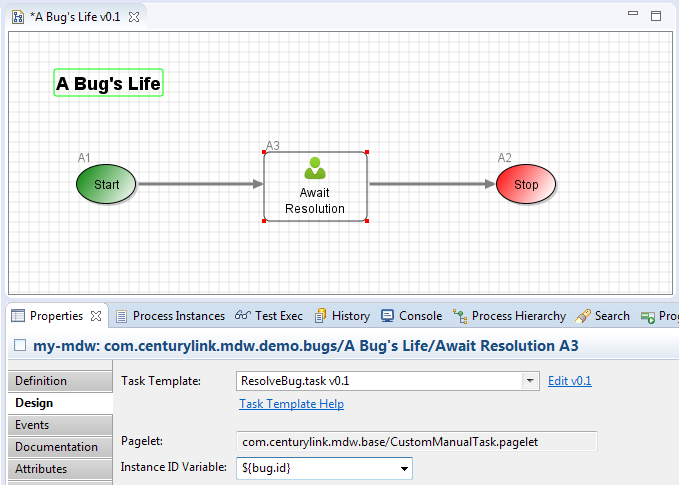
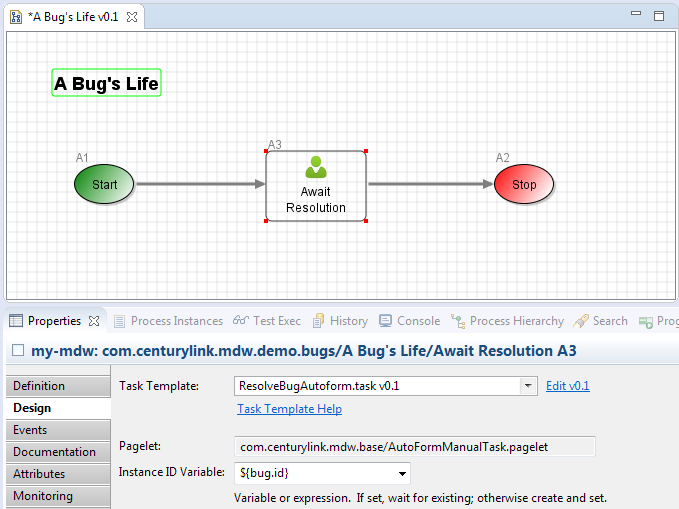
Cookbook updates

Changed region(s): [[0.0, 0.0, 1.0, 1.0], [0.0928, 0.2784, 0.8351, 0.4639], [0.0619, 0.1237, 0.2474, 0.2165]]

diff --git a/mdw-workflow/assets/com/centurylink/mdw/task/Task.jsx b/mdw-workflow/assets/com/centurylink/mdw/task/Task.jsx
@@ -48,6 +48,8 @@ class Task extends Component {
   
   render() {
     var task = this.props.task;
+    // TODO: this refBase doesn't work for non-hash (react) locations
+    var refBase = location.hash ? '#/' : location.origin + this.context.hubRoot + '/#/';
     var animate = true; // not relevant for ad-hoc tasks, but no logic to exclude
     var lastWorkflowInstanceId = sessionStorage.getItem('taskWorkflowInstanceId');
     if (task.ownerId == lastWorkflowInstanceId)
@@ -66,7 +68,7 @@ class Task extends Component {
                     {task.masterRequestId && 
                       <span>
                         <label>Master request:</label>
-                        <a href={'#/workflow/masterRequests/' + task.masterRequestId} 
+                        <a href={refBase + 'workflow/masterRequests/' + task.masterRequestId} 
                             className="mdw-link">{task.masterRequestId}
                         </a>
                       </span>
@@ -100,7 +102,7 @@ class Task extends Component {
                   {task.secondaryOwnerType == 'TASK_INSTANCE' &&
                     <div className="mdw-item-group">
                       Master Task: 
-                      <a href={'#/tasks/' + task.secondaryOwnerId}>{task.secondaryOwnerId}</a>
+                      <a href={refBase + 'tasks/' + task.secondaryOwnerId}>{task.secondaryOwnerId}</a>
                     </div>
                   }
                 </div>
@@ -115,21 +117,21 @@ class Task extends Component {
               {task.assignee &&
                 <div>
                   <img src={this.context.hubRoot + '/images/user.png'} alt="user"/>
-                  {' '}<a href={'#/users/' + task.assigneeId}>{task.assignee}</a>
+                  {' '}<a href={refBase + 'users/' + task.assigneeId}>{task.assignee}</a>
                 </div>
               }
             </div>
           </div>
           <div className="mdw-task-process">
             <span className="mdw-task-package">{task.packageName}/</span>
-            <a href={'#/workflow/processes/' + task.ownerId}>
+            <a href={refBase + 'workflow/processes/' + task.ownerId}>
               {task.processName} {task.ownerId}
             </a>
           </div>
           {task.template &&
             <div className="mdw-task-template">
               <Glyphicon glyph="file" style={{marginRight:'2px',opacity:'0.6'}}/>
-              <a href={'#/asset/' + task.template}>Task Template</a>
+              <a href={refBase + 'asset/' + task.template}>Task Template</a>
             </div>
           }
           <div id="mdw-task-workflow" className="mdw-task-workflow">

diff --git a/mdw-workflow/assets/com/centurylink/mdw/task/Values.jsx b/mdw-workflow/assets/com/centurylink/mdw/task/Values.jsx
@@ -54,14 +54,19 @@ class Values extends Component {
       values.push(val);
     });
     values.sort((val1, val2) => {
-      var diff = val1.sequence - val2.sequence;
-      if (diff === 0) {
+      if (typeof val1.sequence === 'number') {
+        if (typeof val2.sequence === 'number')
+          return val1.sequence - val2.sequence;
+        else
+          return -1;
+      }
+      else if (typeof val2.sequence === 'number') {
+        return 1;
+      }
+      else {
         var label1 = val1.label ? val1.label : val1.name;
         var label2 = val2.label ? val2.label : val2.name;
         return label1.toLowerCase().localeCompare(label2.toLowerCase());
-      }
-      else {
-        return diff;
       }
     });      
     this.setState({
@@ -153,4 +158,4 @@ Values.contextTypes = {
   serviceRoot: PropTypes.string  
 };
 
-export default Values;  
+export default Values;

diff --git a/mdw-services/src/com/centurylink/mdw/service/data/task/TaskDataAccess.java b/mdw-services/src/com/centurylink/mdw/service/data/task/TaskDataAccess.java
@@ -865,10 +865,10 @@ public class TaskDataAccess extends CommonDataAccess {
         // category
         String category = query.getFilter("category");
         if (category != null) {
-            Long categoryCode = getCategoryId(category);
-            if (categoryCode == null)
+            Long categoryId = getCategoryId(category);
+            if (categoryId == null)
                 throw new DataAccessException("Unable to find code for category: " + category);
-            String catTasksClause = buildCategoryTasksClause((int)categoryCode.longValue());
+            String catTasksClause = buildCategoryTasksClause((int)categoryId.longValue());
             if (catTasksClause != null)
                 where.append(" and ").append(catTasksClause).append("\n");
         }
@@ -974,10 +974,10 @@ public class TaskDataAccess extends CommonDataAccess {
         return DataAccess.getBaselineData().getTaskCategoryCodes().get(categoryId);
     }
 
-    protected Long getCategoryId(String categoryName) throws DataAccessException {
-        if (categoryName != null) {
+    protected Long getCategoryId(String categoryNameOrCode) throws DataAccessException {
+        if (categoryNameOrCode != null) {
             for (TaskCategory taskCategory : DataAccess.getBaselineData().getTaskCategories().values()) {
-                if (categoryName.equals(taskCategory.getName())) {
+                if (categoryNameOrCode.equals(taskCategory.getName()) || categoryNameOrCode.equals(taskCategory.getCode())) {
                     return taskCategory.getId();
                 }
             }

diff --git a/docs/_docs/guides/mdw-cookbook.md b/docs/_docs/guides/mdw-cookbook.md
@@ -23,8 +23,8 @@ is available to clone in its completed state from the [mdw-demo repository](http
      - 2.3 [Add a manual task activity](#23-add-a-manual-task-activity)
      - 2.4 [Create a Spring asset](#24-create-a-spring-asset)
      - 2.5 [Consume a REST service](#25-consume-a-rest-service)
-  3. [Integrate a Custom Web UI](#4-integrate-a-custom-web-ui)
-     - TODO: Custom bug submit page
+  3. [Integrate a Custom Web UI](#3-integrate-a-custom-web-ui)
+     - 3.1: Custom bug submit page
      - TODO: Custom task page
   4. [Document and Run Automated Tests](#3-create-an-automated-test)
      - TODO: document the Create Bug process
@@ -426,14 +426,14 @@ is available to clone in its completed state from the [mdw-demo repository](http
     Label the activity Persist Bug, and in the Icon text box type *bug.png*.  Click Next, and for Dynamic Java Class Name, type *PersistBugActivity*.
   
   - After clicking Finish, replace the generated Java code with 
-    [PersistBugActivity.java on GitHub], which implements `execute()` to tell the MDW workflow engine what to do.  These lines
-    from `execute()` take care of creating the task:
+    [PersistBugActivity.java on GitHub](https://github.com/CenturyLinkCloud/mdw-demo/blob/master/assets/com/centurylink/mdw/demo/bugs/PersistBugActivity.java),
+    which implements `execute()` to tell MDW's workflow engine what to do.  These lines from `execute()` take care of creating the task:
     ```java
     public Object execute(ActivityRuntimeContext runtimeContext) throws ActivityException {
-      Bug requestBug = (Bug) this.getVariableValue("request");
-      
+      Bug requestBug = (Bug)getValue("request");
+      String taskTemplate = getTaskTemplate();
       try {
-          AssetVersionSpec templateAsset = new AssetVersionSpec(TASK_TEMPLATE, "0");
+        AssetVersionSpec templateAsset = new AssetVersionSpec(taskTemplate, "0");
           TaskTemplate template = TaskTemplateCache.getTaskTemplate(templateAsset);
           if (template == null)
               throw new DataAccessException("Task template not found: " + template);
@@ -447,8 +447,9 @@ is available to clone in its completed state from the [mdw-demo repository](http
     ```
     Here we're calling [TaskServices.createTask()](../../javadoc/com/centurylink/mdw/services/TaskServices.html#createTask-java.lang.Long-java.lang.String-java.lang.Long-java.lang.String-java.lang.Long-java.lang.String-java.lang.String-), 
     which requires a [Task Template](../../help/taskTemplates.html) asset to specify a pattern.
-    The TASK_TEMPLATE constant illustrates an asset designation that's very common in MDW: `com.centurylink.mdw.demo.bugs/ResolveBug.task`.
-    This equates to assets/com/centurylink/mdw/demo/bugs/ResolveBug.task in your project directory.  Unlike a qualified Java class name,
+    The getTaskTemplate() method returns a string which illustrates MDW's convention for referring to a specific asset:
+    `com.centurylink.mdw.demo.bugs/ResolveBugAutoform.task`.
+    This equates to assets/com/centurylink/mdw/demo/bugs/ResolveBugAutoform.task in your project directory.  Unlike a qualified Java class name,
     a slash separates the package from the asset name.  We'll create the task template asset in the next step.
     
   - When you clicked Finish in the activity creation wizard, aside from the generated PersistBugActivity.java asset, another one named 
@@ -456,7 +457,7 @@ is available to clone in its completed state from the [mdw-demo repository](http
     the Toolbox, impl assets are filtered from Process Explorer by default.  You can click the Filter icon to configure this, 
     or view the .impl file from the assets directory on your hard drive.
     
-  - Also remember that we told the Designer wizard to use bug.png for our activity's toolbox icon.  You probably guessed that the icon is an asset as well.
+  - Also remember that we told the Designer wizard to use bug.png for our activity's toolbox icon.  You probably guessed that the icon image is an asset as well.
     Download [bug.png from GitHub](https://github.com/CenturyLinkCloud/mdw-demo/blob/master/assets/com/centurylink/mdw/demo/bugs/bug.png)
     into assets/com/centurylink/mdw/demo/bugs in your project.  Then close all open files and refresh Process Explorer to see it appear.
     
@@ -466,28 +467,36 @@ is available to clone in its completed state from the [mdw-demo repository](http
     Now save your process changes.
 
 #### Create a task template asset
-  - Right-click on the com.centurylink.mdw.demo.bugs package and select New > Task Template.  Name the template ResolveBug.task, and 
-    make sure you select Custom for Language/Format:<br>
+  - Right-click on the com.centurylink.mdw.demo.bugs package and select New > Task Template.  Name the template ResolveBugAutoform.task, and 
+    make sure you select AutoForm for Language/Format:<br>
     ![create task template](../images/create-task-template.png)<br>
     
-  - When the wizard finishes, ResolveBug.task will open in Designer's template editor.  Notice the tabs at the bottom of the editor pane.
+  - When the wizard finishes, ResolveBugAutoform.task will open in Designer's template editor.  Notice the tabs at the bottom of the editor pane.
     On the General tab, for Task Name enter the [Java Expression](http://docs.oracle.com/javaee/6/tutorial/doc/gjddd.html) `${bug.title}`, 
     which tells MDW to use the *bug* process variable's *title* value.<br>
     ![task template editor](../images/task-template-editor.png)<br>
     
-  - Then on the Workgroups tab, add Developers to the Selected Groups.  That's all we need to do to the template for now.  Later on we'll
-    learn how to customize the web UI and other aspects of our ResolveBug task.  Save the template with these changes.  
+  - Then on the Workgroups tab, add Developers to the Selected Groups.  That's all we need to do to the template at the moment.  Later on we'll
+    learn how to customize the web UI and other aspects of our task.  But for now save the template with just these changes.  
      
 #### Run the revised process and view the task
-  - Submit a (valid) bug request via HTTP POST as before, and view your process in Designer.  The flow should have run to completion.
-    On the Values tab, double-click the responseHeaders variable.  When submitting you may have noticed that the HTTP status code 
+  - We want to submit a (valid) bug request via HTTP POST as before.  But you may have noticed that getTaskTemplate() in the GitHub version
+    of PersistBugActivity returns ResolveBugAutoform only conditionally.  To meet that condition, you'll want to use your posting tool to add a 
+    header `autoform` with a value of `true`.  If that's not convenient, then simply change getTaskTemplate() to return a hardcoded response:
+    ```java
+    private String getTaskTemplate() throws ActivityException {
+        return "com.centurylink.mdw.demo.bugs/ResolveBugAutoform.task";
+    }
+    ```
+    After submitting, the process flow should run to completion.  On the Values tab, double-click the responseHeaders variable.  
+    When submitting you may have noticed that the HTTP status code on the response
     changed to 201 (Created), and the response headers now include *Location*.  Review the code in PersistBugActivity.execute() to see
     how responseHeaders is populated.  It's another example of a convention in MDW whereby you can readily control the behavior of 
-    your REST service.  
-  
+    your REST service.
+
   - Point your browser to MDWHub, and click on the Tasks tab.  You should see the top task named whatever you submitted for the bug's title.
     Click to drill into the task.  What the...?  You got a blank page!  It's common practice in MDW to deliver optional features in the
-    form of asset packages.  MDWHub's Task UI relies on a couple of these packages.  We can import them using MDWHub or Designer.  
+    form of asset packages.  MDWHub's Task UI relies on a couple of these packages.  You can import them using MDWHub or Designer.
     We'll use Hub since we're already there.
     
   - Click on the Admin tab in MDWHub, and select the Assets nav link to see your packages (ignoring any errors regarding Git Branch mismatches).
@@ -508,7 +517,7 @@ is available to clone in its completed state from the [mdw-demo repository](http
 #### Use the Invoke Subprocess activity
   - First create a new process under package com.centurylink.mdw.demo.bugs.  Call this process "A Bug's Life".  We'll not check Service Process
     on the Design tab this time.  By definition service processes are not long-running, and they're restricted from containing certain activities.
-    Now add a variable named 'bug' with type com.centurylink.mdw.model.Jsonable and mode Input.  Save "A Bug's Life".
+    Now add an Input variable named 'bug' with type com.centurylink.mdw.model.Jsonable.  Save "A Bug's Life".
     
   - Return to the Create Bug process, and from the Toolbox drag an Invoke Subprocess activity.  Name it "Invoke Bug Subflow", and Link it 
     after Save Bug and before Created.  Double click the subprocess activity and on the Design tab select "A Bug's Life" for Subprocess. 
@@ -526,25 +535,27 @@ is available to clone in its completed state from the [mdw-demo repository](http
 ### 2.3 Add a manual task activity
 
 #### Insert a manual task 
-  - Returning to "A Bug's Life", drag a Custom Manual Task activity and link it between Start and Stop.  Change the label to
-    "Await Resolution".  On the Design tab, select the ResolveBug task template we create.  For Instance ID Variable instead of selecting
+  - Returning to "A Bug's Life", drag an Autoform Manual Task activity and link it between Start and Stop.  Change the label to
+    "Await Resolution".  On the Design tab, select the ResolveBugAutoform task template we create.  For Instance ID Variable instead of selecting
     from the dropdown, type the expression `${bug.id}`.  This tells MDW that we've already created the task (in Save Bug), and we just need 
     our activity to await task completion.<br>
     ![a bugs life](../images/a-bugs-life.png)<br>
     
-  - Save and run to confirm that the status of Await Resolution in "A Bug's Life" is *Waiting*.  This indicates that flow will resume 
+  - Save and submit a request to to run.  Confirm that the status of Await Resolution in "A Bug's Life" is *Waiting*.  This indicates that flow will resume 
     once the associated manual task is completed.
 
-#### Perform actions on the task    
+#### Perform actions on the task
   - In MDWHub click the Tasks tab, find the just-created bug task, and drill into it.  Click the Action button and select Claim.
     By default you must be assigned a task to complete it (although this behavior [can be overridden](../../help/taskAction.html)).
     Click the Action button again and select Complete.
     
   - Return to the Bug's Life instance in MDWHub or Designer, and refresh to confirm that now the subflow has run to completion.
     Manual tasks provide a great mechanism for humans to interact with workflows.  Aside from triggering actions, another key aspect
-    of manual tasks in MDWHub is enabling data entry.  With [AutoForm tasks](../../javadoc/com/centurylink/mdw/workflow/activity/task/AutoFormManualTaskActivity.html), 
+    of manual tasks in MDWHub is enabling data entry.  In [subsection 2.5](#25-consume-a-rest-service) we'll explore how, with 
+    [AutoForm tasks](../../javadoc/com/centurylink/mdw/workflow/activity/task/AutoFormManualTaskActivity.html), 
     data entry can be tied to variables through configuration, and a data-entry form is generated on the fly by MDWHub.
-    Remember, however, that we chose a [Custom task](../../javadoc/com/centurylink/mdw/workflow/activity/task/CustomManualTaskActivity.html).
+    Later, in [section 3](#3-integrate-a-custom-web-ui), we'll create an entirely custom web UI based around a 
+    [Custom task](../../javadoc/com/centurylink/mdw/workflow/activity/task/CustomManualTaskActivity.html).
     
 ### 2.4 Create a Spring asset
   MDW uses [Spring](https://spring.io/) internally, and one of the key extensibility mechanisms MDW provides is the ability to create
@@ -589,9 +600,9 @@ is available to clone in its completed state from the [mdw-demo repository](http
     for us to designate our own values for certain reference data in MDW.  In the Categories constructor, we're building our own list
     of TaskCategories to include along with the MDW built-in ones.
     
-#### Configure the ResolveBug task template    
+#### Configure the ResolveBugAutoform task template    
   - Designer caches this type of data obtained from the MDW server, so close everything and refresh Process Explorer.  When you
-    re-expand the project tree, that's when Designer pulls these values from the server.  After that, open up ResolveBug.task and
+    re-expand the project tree, that's when Designer pulls these values from the server.  After that, open up ResolveBugAutoform.task and
     change the Category to ISSUE - Bug.
     
   - While we're here let's explore some other aspects of manual tasks.  We could specify a [due interval](../../help/taskSLA.html)
@@ -601,7 +612,7 @@ is available to clone in its completed state from the [mdw-demo repository](http
     create a new Java Source asset named Prioritization.java with 
     [code from GitHub](https://github.com/CenturyLinkCloud/mdw-demo/blob/master/assets/com/centurylink/mdw/demo/bugs/Prioritization.java).
     The logic here is very straightforward, but it's worth mentioning this annotation we haven't seen before:
-    ```
+    ```java
     @RegisteredService(PrioritizationStrategy.class)
     public class Prioritization ...
     ```
@@ -609,7 +620,7 @@ is available to clone in its completed state from the [mdw-demo repository](http
     you can plug in, have a look at the [All Known Subinterfaces](http://centurylinkcloud.github.io/mdw/docs/javadoc/com/centurylink/mdw/common/service/RegisteredService.html) 
     section of the javadoc.
     
-  - Now return to ResolveBug.task and on the General tab paste the fully qualified name of the class we just created into
+  - Now return to ResolveBugAutoform.task and on the General tab paste the fully qualified name of the class we just created into
     Prioritization Strategy: `com.centurylink.mdw.demo.bugs.Prioritization`.  This strategy pattern is common to many attributes of
     a task template:
       - [PrioritizationStrategy](../../javadoc/com/centurylink/mdw/observer/task/PrioritizationStrategy.html) - priority and due interval
@@ -625,17 +636,17 @@ is available to clone in its completed state from the [mdw-demo repository](http
   - You can poke around the task template design tabs and click on the help links to explore additional template attributes,
     such as [Email and Slack notifications](../../help/taskNotices.html) based on HTML template assets.
   
-  - If you're done for now, save ResolveBug.task and resubmit with various values for 'severity' to confirm its impact on the due interval
+  - If you're done for now, save ResolveBugAutoform.task and resubmit with various values for 'severity' to confirm its impact on the due interval
     by checking the Tasks tab in MDWHub.
     
 ### 2.5 Consume a REST service
-  Way back in [Section 1](#1-implement-a-rest-service) we covered how to produce a REST service.  Now we want to consume a REST API, specifically
+  Way back in [section 1](#1-implement-a-rest-service) we covered how to produce a REST service.  Now we want to consume a REST API, specifically
   a [microservice](https://en.wikipedia.org/wiki/Microservices), from within our workflow.  You'll find that the microservice architectural approach, with
   its emphasis on tightly-focused services, lends itself to the visual orchestration capabilities in MDW.
 
 #### Import the microservice package
   The MDW term for an activity that invokes an external service (whatever the protocol), is *adapter activity* (or simply *adapter*).
-  In the base package there's a built-in general REST adapter, but the optional `com.centurylink.mdw.microservice' package includes assets
+  In the base package there's a built-in general REST adapter, but the optional `com.centurylink.mdw.microservice` package includes assets
   that are especially well-suited to the microservice paradigm.  So first we'll import this package.
    
   - Back on the Admin tab in MDWHub, select the Assets nav link and click Click Import > Discover.  Click the Discover button and select
@@ -655,12 +666,15 @@ is available to clone in its completed state from the [mdw-demo repository](http
     variable for an HTTP GET.  Here's what the process should look like:
     ![a bugs life 2](../images/a-bugs-life-2.png)<br>    
     
+#### Capture commitId via Autoform    
+  - Now we need a way for resolvers to enter the commit ID.  Open   
+  
   - Save "A Bug's Life" now.  In section 3 we'll build a page to capture data related to bug tasks, where a resolver will enter the commit ID.
     For the time being, to test our REST adapter we'll just submit a bug with commitId already populated.  Post a new request with something like this:
     ```json
     {
       "title": "Missing documentation on external Error Handler processes",
-      "description": "Someone needs to step up.  I'm not saying who.",
+      "description": "Someone needs to step up.  I'm not saying who...",
       "severity": 2,
       "commitId": "52c7b84"
     }
